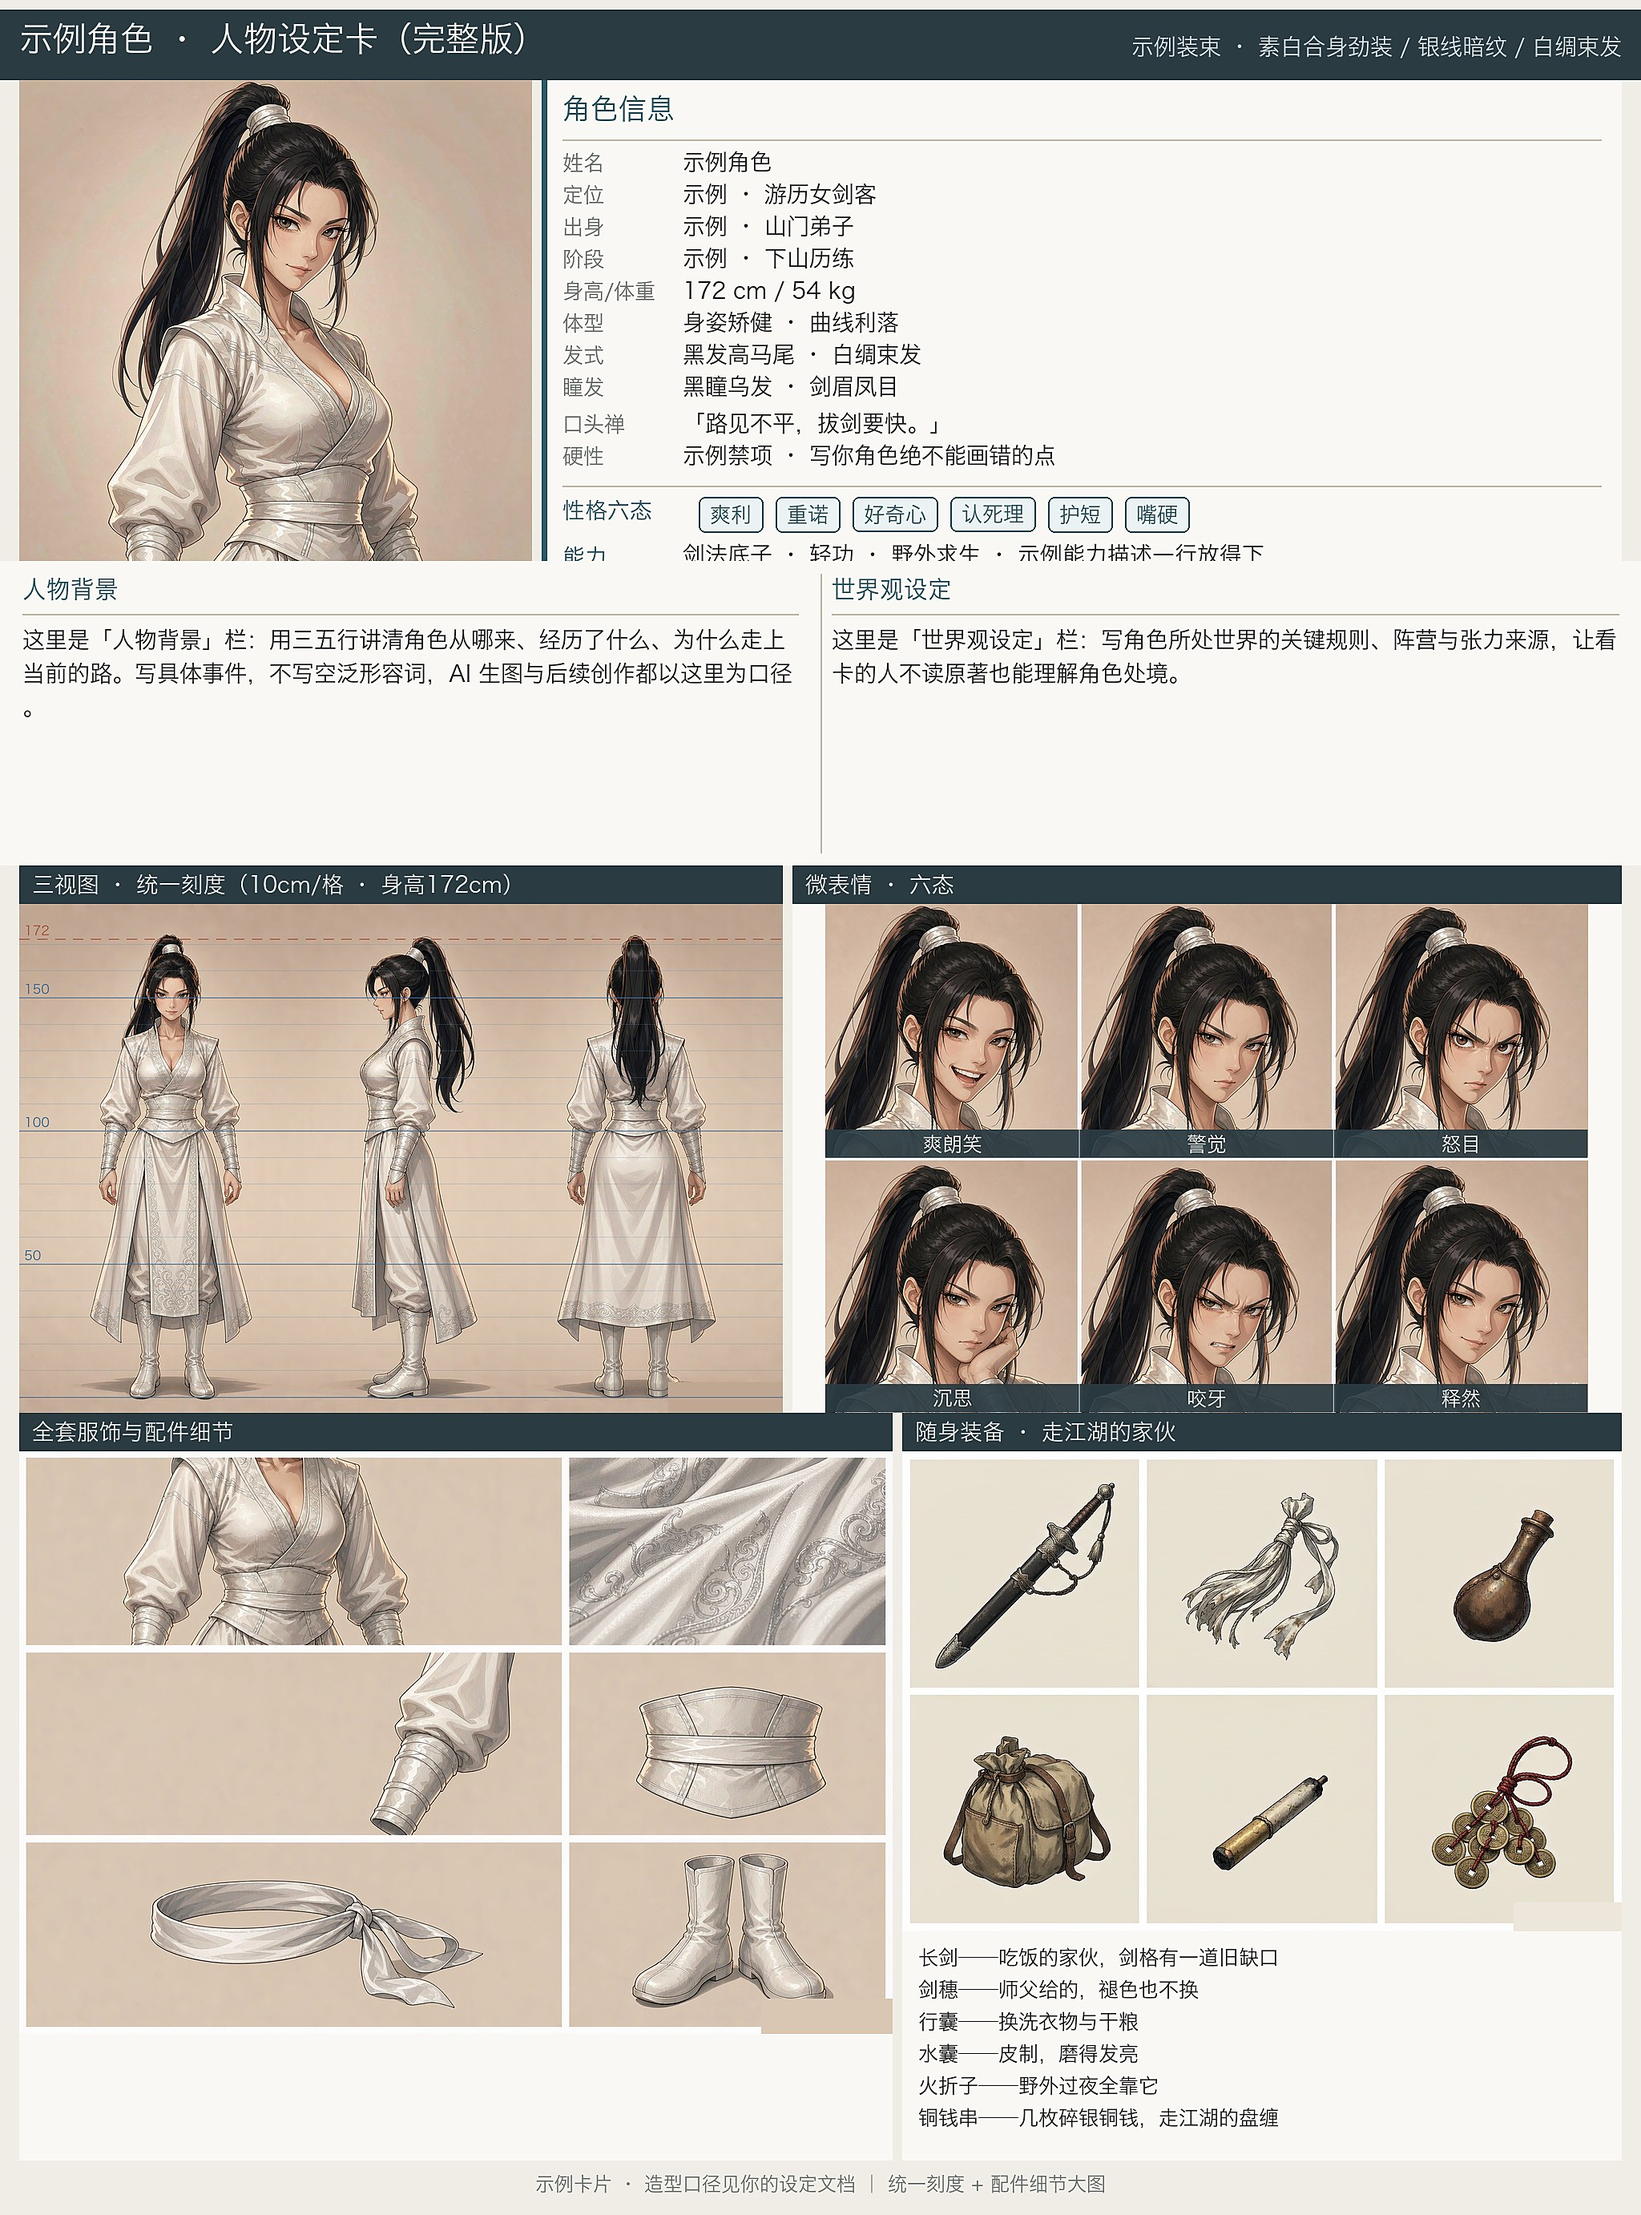
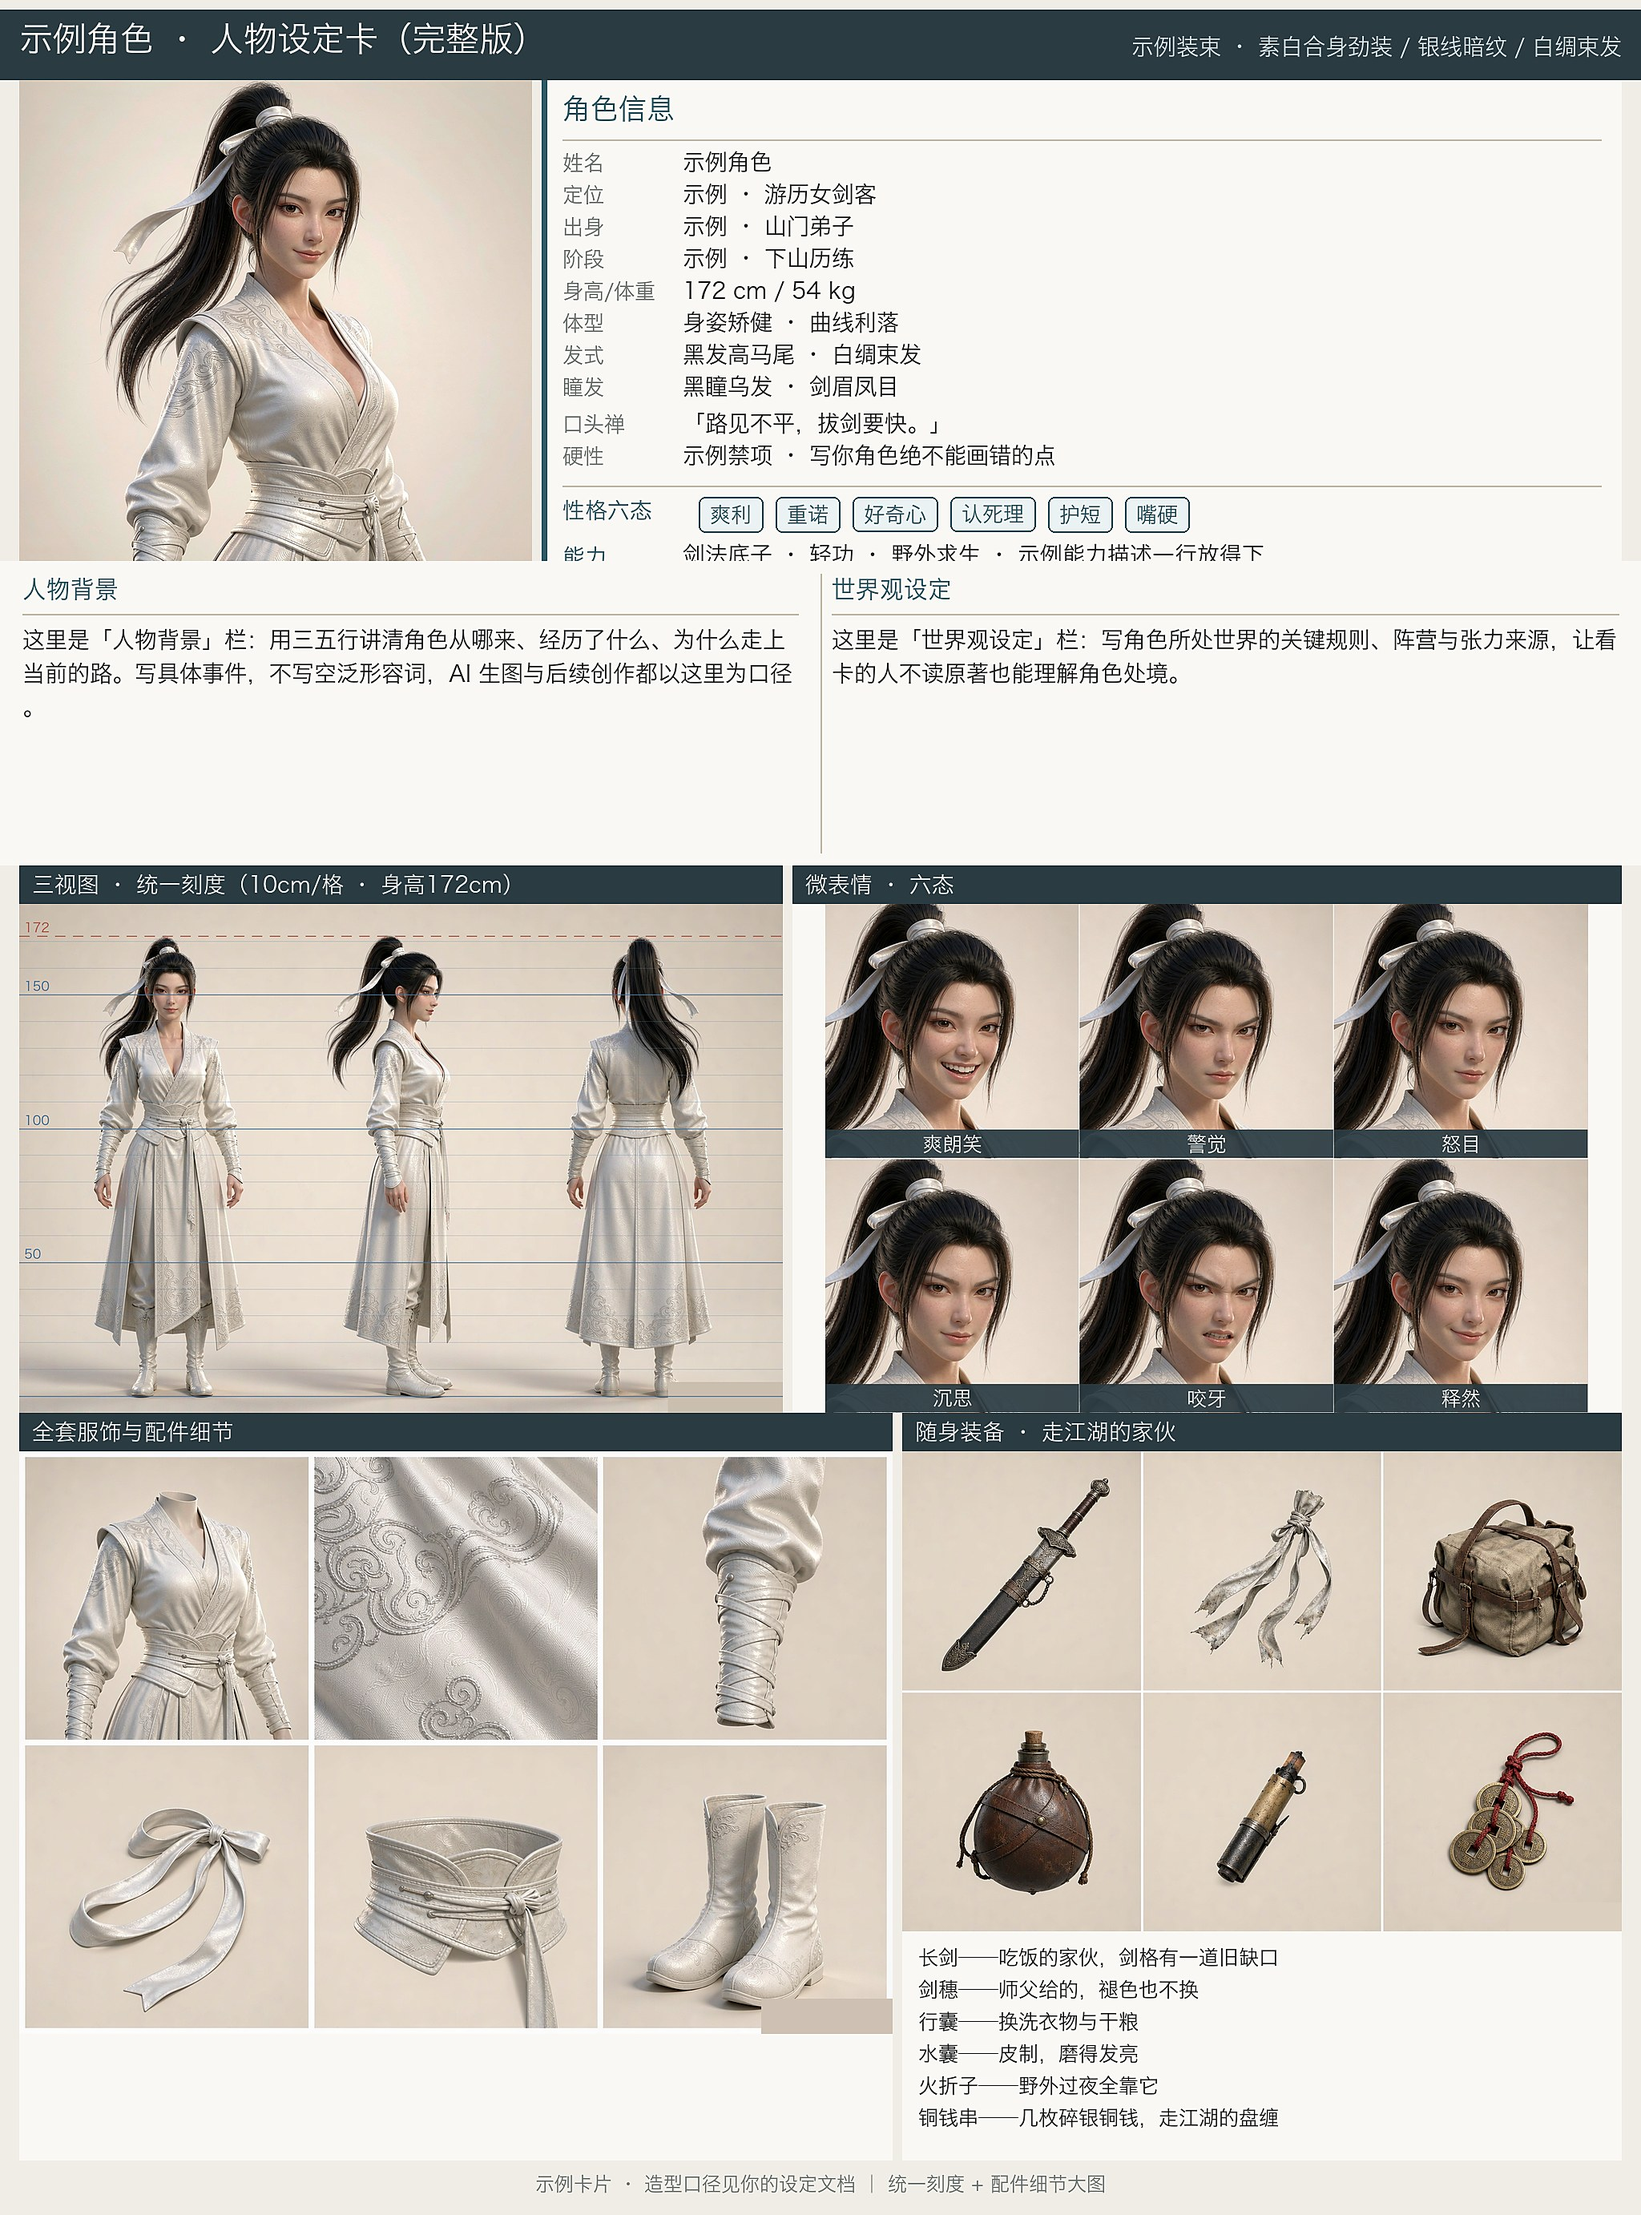
Add STYLE LOCK rule; regenerate demo in photoreal cinematic 3D
- root cause of style mismatch: script only assembles (no style ops);
  style is decided entirely by part-generation prompts. Old SKILL.md
  templates lacked a style anchor and the previous demo was generated
  as 2.5D anime, unlike the 3D-realistic reference pipeline.
- SKILL.md/README: STYLE LOCK must accompany CHARACTER LOCK; style must
  match image1 reference; all 10 parts share one style keyword
- demo regenerated: photoreal cinematic 3D, realistic + chibi cards

diff --git a/SKILL.md b/SKILL.md
@@ -36,16 +36,23 @@ description: 给一段人物描述/设定文本生成「写实完整人物卡 + 
 
 ### 生图提示词模板
 
+**⚠ 画风锁（STYLE LOCK）——先定画风再写提示词**：脚本只做拼版，**不做任何画风转换**，成品卡是什么画风完全由分件生成提示词决定。规则：
+- 第一原则：**与 image1 参考图画风保持一致**——挂了 3D 写实定妆，提示词却写"动漫风"，出来就是动漫风；
+- 3D 写实口径（对齐影视级 AI 视频管线）：提示词写 `photoreal cinematic 3D animation film still（电影级写实 3D 渲染，真实皮肤与布料材质）`，禁动漫线稿/禁厚涂插画；
+- 2D 动漫口径：提示词写 `2D anime`，同样全系列统一；
+- **同一角色的 10 张分件画风必须一致**，每一张都要重复画风关键词。
+
 **① 主肖像**：
 ```
 CHARACTER LOCK: 与参考图 image1 同一角色，面部/发型/体型完全一致。
+STYLE LOCK: 画风与 image1 一致（如 photoreal cinematic 3D animation film still）。
 <角色>半身像，<姿势与表情>，<服饰要点>，浅米色纯背景 (240,237,231)，
 正面受光，细节清晰，无文字。
 ```
 
 **② 三视图**（横版 1536×1024）：
 ```
-CHARACTER LOCK: 同 image1 角色。
+CHARACTER LOCK: 同 image1 角色。STYLE LOCK: 同 image1 画风。
 同一角色三视图：正面、侧面、背面，全身站姿 T-pose 自然站直，
 三视图等高并排、间距均匀，同一比例尺，浅米色纯背景 (240,237,231)，
 地面可有淡淡阴影，无文字，无标注线。

diff --git a/README.md b/README.md
@@ -49,6 +49,7 @@ pip install -r requirements.txt        # Pillow + numpy
 | 5 | 装备图鉴六格 | 1536×1024 | 10 | Q版装备图鉴 | 1536×1024 |
 
 **硬约束**（违反必返工）：
+- **画风由分件提示词决定，本工具只拼版、不做画风转换**：要 3D 写实写 `photoreal cinematic 3D`，要二次元写 `2D anime`；同一角色 10 张分件画风必须一致，且与锁脸参考图一致；
 - 微表情六格必须**横版 3 列×2 行**，方图会导致名牌错位（服饰/装备六格不叠名牌，不受影响，但仍建议 3×2）；
 - 底色统一浅色 ≈ `(240, 237, 231)`，否则组装后色带不齐；
 - 三组六格**一律素面，禁画任何文字标签**——服饰/装备的说明文字由资料栏注记承担，不在图上标；
